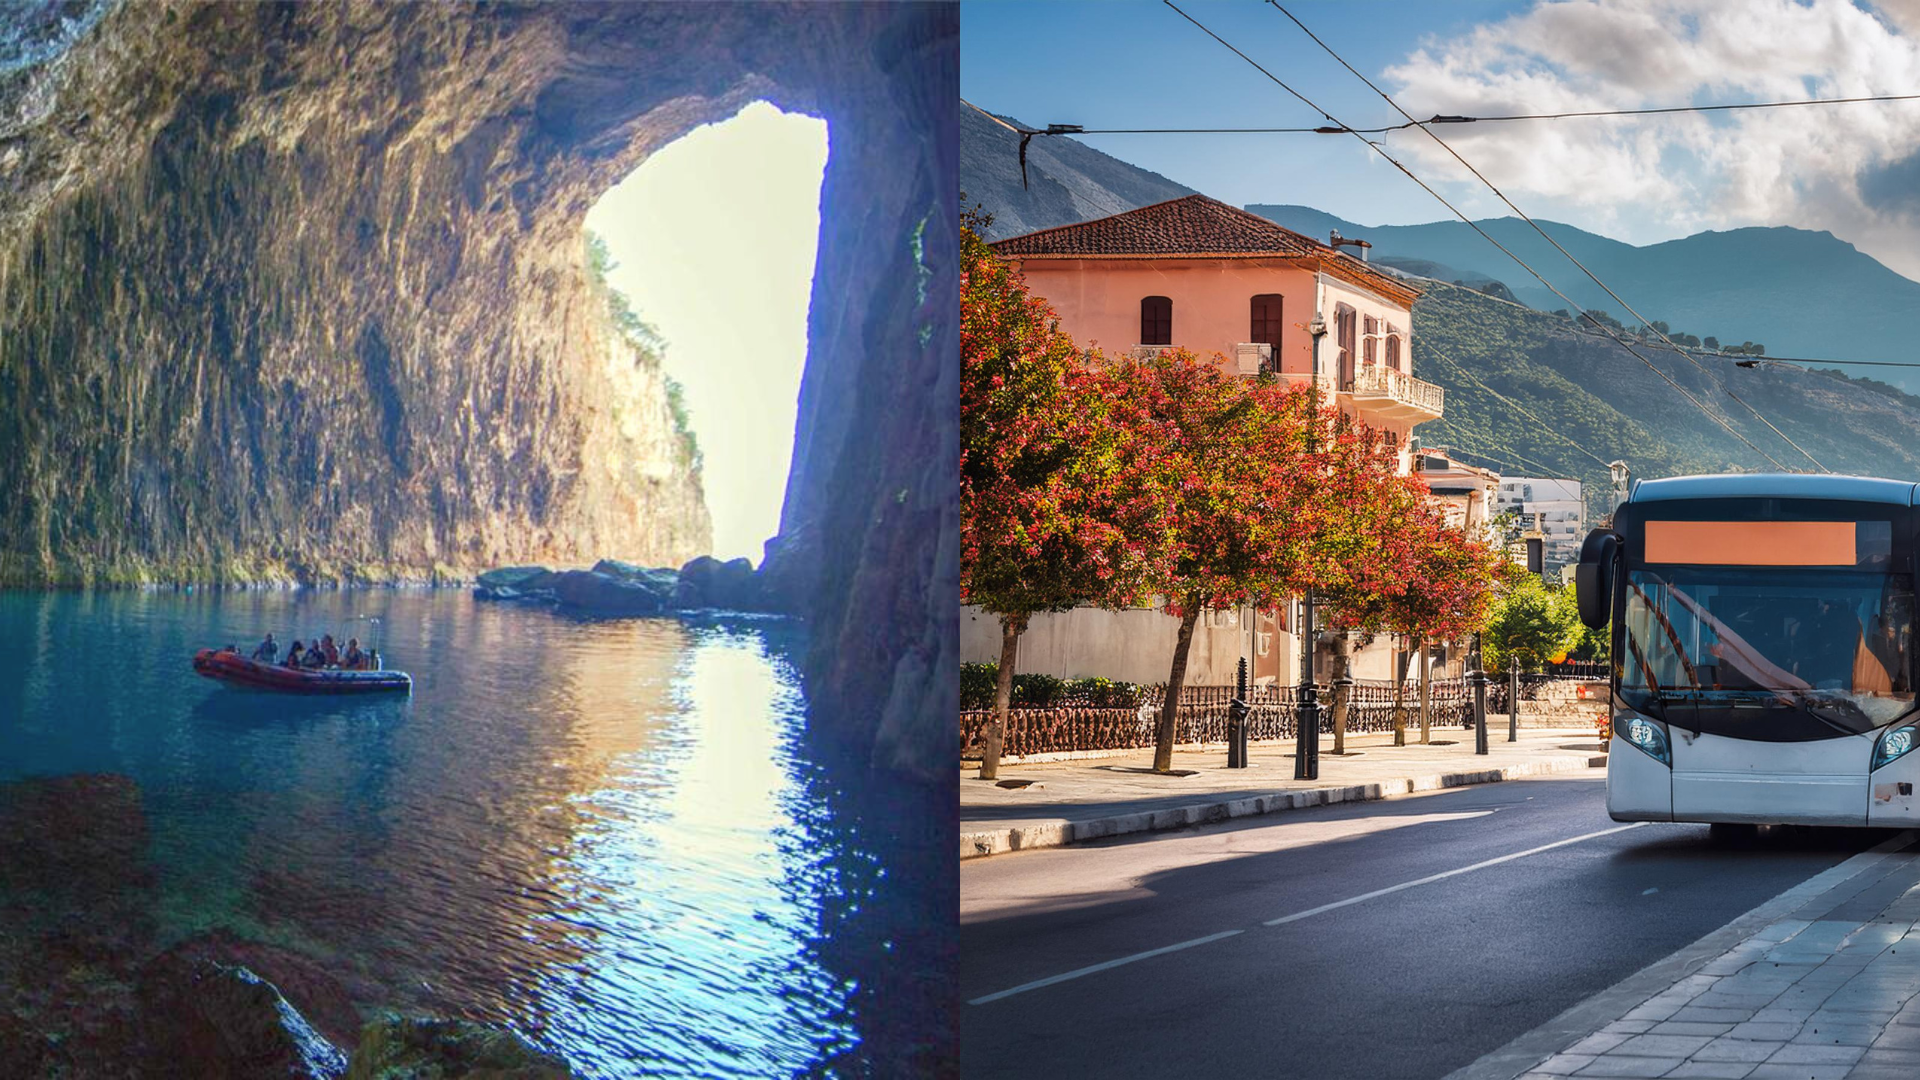
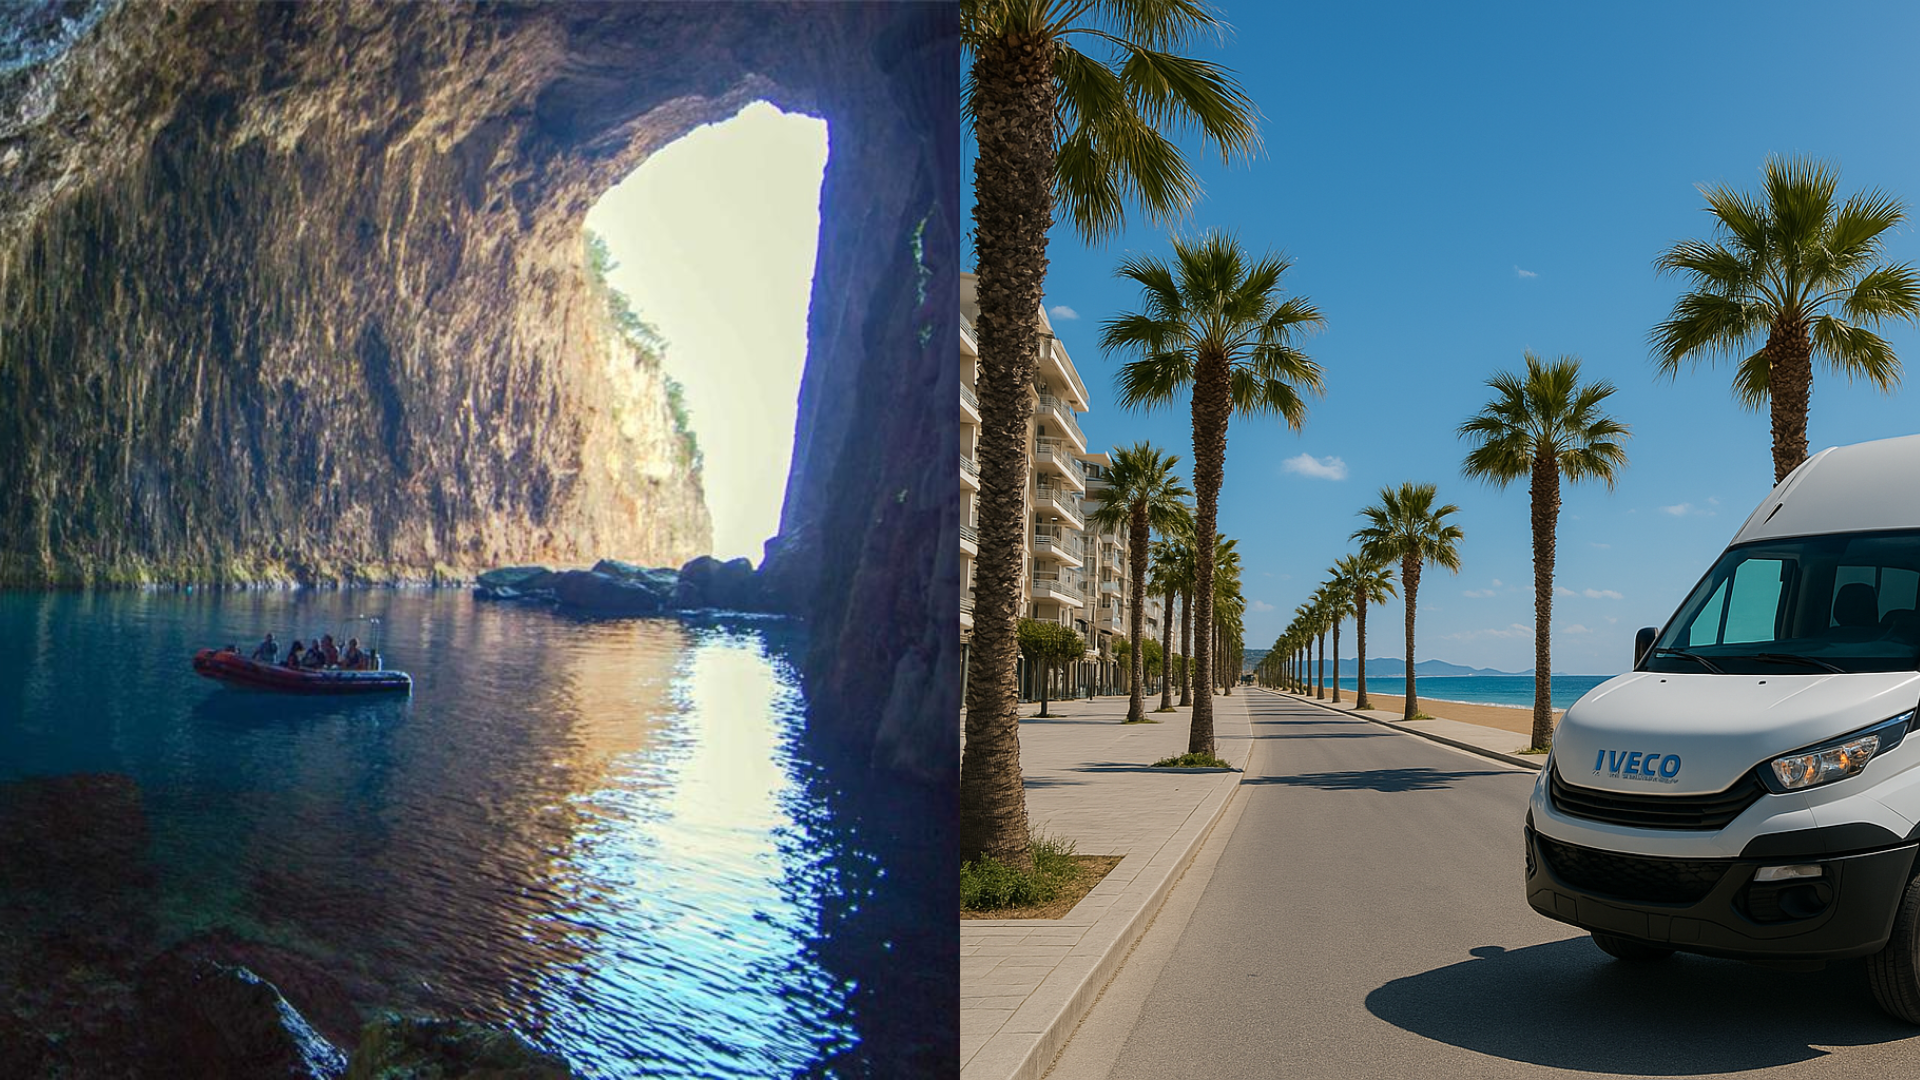
integrate add to cart alert message and sound

diff --git a/index.html b/index.html
@@ -28,7 +28,7 @@
       </video>  
       <div class="banner-div">
         <h1 data-i18n="bannerHeading">Explore Vlora</h1>
-        <h4 data-i18n="bannerSub">Boat trips, bus tickets, and travel info—all in one place.</h4>
+        <h4 data-i18n="bannerSub">Boat trips, daily tours, and travel info—all in one place.</h4>
         <button data-i18n="getStarted" type="button" class="btn hidden explore-btn" onclick="window.location.href='./services.html'"> Get Started </button>
       </div>
       <div class="fixed-top-div">
@@ -168,7 +168,7 @@
           </div>
           <img class="grid2-arrow" src="./assets/images/green-curve-shape-easy.svg" alt="" data-dont-replace="">
           <div class="grid2-cta"> 
-            <p class="below-banner-p">A multifunctional tourist info & service point, accessible to all. Book boat trips and bus tickets online, and visit us for travel information, currency exchange, car rentals, and accommodations—ensuring a seamless experience in Vlora.</p>
+            <p class="below-banner-p">A multifunctional tourist info & service point, accessible to all. Book boat trips and daily van tours online, and visit us for travel information, currency exchange, car rentals, and accommodations—ensuring a seamless experience in Vlora.</p>
             <button type="button" class="btn hidden cta-link" onclick="window.location.href='./about.html'"> Learn More <svg xmlns="http://www.w3.org/2000/svg" width="16" height="16" fill="currentColor" class="bi bi-arrow-up-right" viewBox="0 0 16 16">
               <path fill-rule="evenodd" d="M14 2.5a.5.5 0 0 0-.5-.5h-6a.5.5 0 0 0 0 1h4.793L2.146 13.146a.5.5 0 0 0 .708.708L13 3.707V8.5a.5.5 0 0 0 1 0z"/>
             </svg></button>
@@ -266,7 +266,7 @@
                 <span class="enhanced">enhance</span>
                 <span>your adventure</span>
               </h3>
-              <p class="text-muted">Purchase your boat and bus tickets effortlessly through our user-friendly platform, ensuring a hassle-free start to your adventure in Vlora.</p>
+              <p class="text-muted">Purchase your boat and daily tour tickets effortlessly through our user-friendly platform, ensuring a hassle-free start to your adventure in Vlora.</p>
               <img class="" src="./assets/images/swirl.svg" alt="">
             </div>
             <div class="lupa-div">
@@ -333,7 +333,7 @@
           
           <div class="col-md-2">
             <h2><span class="counter" data-target="15000">0</span></h2>
-            <p> Bus Tickets Sold</p>
+            <p> Van Tour Tickets Sold</p>
           </div>
           
           <div class="col-md-2">
@@ -526,7 +526,7 @@
             <img class="" src="./assets/images/double-line.svg" alt="" data-dont-replace="">
           </div>
           <img class="" src="./assets/images/four-angle-star.svg" alt="" >
-          <p class="grid5-intro">Experience Vlora like never before with Tourist Solutions, your dedicated hub for seamless travel planning. Our center caters to all your needs, providing boat and bus tickets, along with essential tourist information in various accessible formats. Learn more about our inclusivity <u><b><a href="./inclusive.html">here</a></b></u> .</p>
+          <p class="grid5-intro">Experience Vlora like never before with Tourist Solutions, your dedicated hub for seamless travel planning. Our center caters to all your needs, providing boat and daily van tour tickets, along with essential tourist information in various accessible formats. Learn more about our inclusivity <u><b><a href="./inclusive.html">here</a></b></u> .</p>
           <img class="arrow" src="./assets/images/green-curve-shape-choose.svg" alt="">
         </div>
         <section class="why-choose-us">
@@ -539,8 +539,8 @@
               </div>
               <div class="feature">
                 <div class="icon"><img src="./assets/images/ticketss.jpeg"></div>
-                <h3>Boat & Bus Booking</h3>
-                <p>Book boat trips and bus tickets online with ease for a seamless journey.</p>
+                <h3>Boat & Daily tour Booking</h3>
+                <p>Book boat trips and van tour tickets online with ease for a seamless journey.</p>
               </div>
               <div class="feature">
                 <div class="icon"><img src="./assets/images/inclusive.jpeg"></div>
@@ -555,7 +555,7 @@
         <div class="container">
           <h2>Ready to Explore Vlora?</h2>
           <p>
-            Plan your journey with us today! Whether you're booking a boat trip, a bus ticket, or have any questions or inquiries, we're here to help.</p>
+            Plan your journey with us today! Whether you're booking a boat trip, a daily van tour ticket, or have any questions or inquiries, we're here to help.</p>
           <a href="contact.html" class="cta-button">Get in Touch</a>
         </div>
       </section>

diff --git a/scripts/booking-page.js b/scripts/booking-page.js
@@ -54,9 +54,37 @@ document.querySelectorAll(".increase, .decrease").forEach(button => {
 
 
 document.addEventListener("DOMContentLoaded", function () {
+
+
+
     // Get the product (boat or bus) name from the URL
     const params = new URLSearchParams(window.location.search);
     const productName = params.get("boat") || params.get("bus"); // Supports both "boat" and "bus"
+      // Restrict date selection
+      const dateInput = document.getElementById("tour-date");
+      if (dateInput) {
+          dateInput.addEventListener("input", function () {
+              const selectedDate = new Date(this.value);
+              const month = selectedDate.getMonth() + 1; // JS months are 0-based
+              const day = selectedDate.getDate();
+              
+              // Check if the month is within June - September
+              if (month < 6 || month > 9) {
+                  alert("Tours are only available from June to September.");
+                  this.value = "";
+                  return;
+              }
+              
+              // Special rules for van tours
+              if (productName === "Vlora-Saranda" && day % 2 === 0) {
+                  alert("This tour is only available on odd dates.");
+                  this.value = "";
+              } else if (productName === "Vlora-Berat" && day % 2 !== 0) {
+                  alert("This tour is only available on even dates.");
+                  this.value = "";
+              }
+          });
+      }
 
     // Define product details (boats + buses)
     const productDetails = {
@@ -229,7 +257,7 @@ document.addEventListener("DOMContentLoaded", function () {
         </div>`;
     
         const isbus = productName.includes("Vlora-");
-        const booknowtitle = isbus ? "Book Your Bus Seat" : "Book Your Tour";
+        const booknowtitle = isbus ? "Book Your Daily Van Tour" : "Book Your Tour";
     
 
     
@@ -292,6 +320,10 @@ document.addEventListener("DOMContentLoaded", function () {
 
 
 document.addEventListener("DOMContentLoaded", function () {
+
+    const  popSound= new Audio("./assets/images/cart-pop.mp3");
+    popSound.preload = 'auto';
+
     let cart = JSON.parse(localStorage.getItem("cart")) || [];
     const cartOffcanvas = document.getElementById("cartOffcanvas");
     const cartItemsContainer = document.getElementById("cart-items");
@@ -359,7 +391,7 @@ document.addEventListener("DOMContentLoaded", function () {
 
         const boatName = document.getElementById("boat-name").textContent;
         const isBus = boatName.includes("Vlora-");
-        const headline = isBus ? "Bus Seat" : "Boat Tour";
+        const headline = isBus ? "Daily Van Tour " : "Boat Tour";
         const date = document.getElementById("tour-date").value;
 
         if (!date) {
@@ -377,6 +409,10 @@ document.addEventListener("DOMContentLoaded", function () {
             alert("Please select at least one adult.");
             return;
         }
+
+        
+
+
 
         const boatDetails = {
             "Aquamarine": {
@@ -408,6 +444,21 @@ document.addEventListener("DOMContentLoaded", function () {
         if (!boat) {
             alert("Invalid selection.");
             return;
+        }else{
+ // Assuming reservation is successful, show the message and play sound
+ const addedToCartMessage = document.getElementById("added-to-cart");
+
+ addedToCartMessage.style.display = "block"; // Show the message
+ popSound.play(); // Play the sound
+
+
+//  setTimeout(function() {
+//     popSound.play();
+// }, 2000);
+ // Hide the message after 2 seconds
+ setTimeout(() => {
+     addedToCartMessage.style.display = "none";
+ }, 2000);
         }
 
         let totalPrice = (adults * boat.price.adult) + (children * boat.price.child);

diff --git a/about.html b/about.html
@@ -160,7 +160,7 @@
      <div class="content ">
         <div class="about-intro container">
             <img src="./assets/images/logo-removebg-preview.png">
-            <p>Located along the stunning coastline of Vlora Beach - Lungomare, InfoPoint Vlora is your go-to center for seamless travel planning. Although we are a recent addition, our impact has been immense, ensuring travelers enjoy a hassle-free experience.<br> As a multifunctional tourist info and service point, we are dedicated to making travel accessible to all. Whether you're looking to book boat trips or bus tickets online, find essential travel information, exchange currency, rent a car, or secure accommodations, we have you covered.<br> Our commitment to inclusivity ensures that every traveler, regardless of their needs, can navigate Vlora with ease. From adventure seekers to casual explorers, we are here to make your journey smooth, enjoyable, and stress-free.</p>
+            <p>Located along the stunning coastline of Vlora Beach - Lungomare, InfoPoint Vlora is your go-to center for seamless travel planning. Although we are a recent addition, our impact has been immense, ensuring travelers enjoy a hassle-free experience.<br> As a multifunctional tourist info and service point, we are dedicated to making travel accessible to all. Whether you're looking to book boat trips or daily van tours online, find essential travel information, exchange currency, rent a car, or secure accommodations, we have you covered.<br> Our commitment to inclusivity ensures that every traveler, regardless of their needs, can navigate Vlora with ease. From adventure seekers to casual explorers, we are here to make your journey smooth, enjoyable, and stress-free.</p>
             <a href="services.html" class="cta">Explore Our Services <svg xmlns="http://www.w3.org/2000/svg" width="16" height="16" fill="currentColor" class="bi bi-arrow-up-right" viewBox="0 0 16 16">
                 <path fill-rule="evenodd" d="M14 2.5a.5.5 0 0 0-.5-.5h-6a.5.5 0 0 0 0 1h4.793L2.146 13.146a.5.5 0 0 0 .708.708L13 3.707V8.5a.5.5 0 0 0 1 0z"/>
               </svg></a>
@@ -201,7 +201,7 @@
                 <div class="col d-flex flex-column gap-2">
                    <span style="font-size: 2rem;" >🚍</span>
                   <h3>200,000+</h3>
-                  <p>Bus Tickets Sold</p>
+                  <p>Van Tour Tickets Sold</p>
                 </div>
       
                 <div class="col d-flex flex-column gap-2">
@@ -229,7 +229,7 @@
             <div class="container">
               <h2>Ready to Explore Vlora?</h2>
               <p>
-                Plan your journey with us today! Whether you're booking a boat trip, a bus ticket, or have any questions or inquiries, we're here to help.</p>
+                Plan your journey with us today! Whether you're booking a boat trip, a daily van tour, or have any questions or inquiries, we're here to help.</p>
               <a href="contact.html" class="cta-button">Get in Touch</a>
             </div>
           </section>

diff --git a/faqs.html b/faqs.html
@@ -173,13 +173,13 @@
                 </div>
             </div>
             <div class="accordion__item">
-                <div class="accordion__header" data-toggle="#faq3">3. Can I book boat and bus tickets online?</div>
+                <div class="accordion__header" data-toggle="#faq3">3. Can I book boat and daily van tour tickets online?</div>
                 <div class="accordion__content" id="faq3">
-                  <p><br>Absolutely! We provide a seamless online booking experience for both boat and bus tickets. Just head over to our booking page for <a href="./bus.html">buses</a> or <a href="./boat.html">boats</a> to get started.   </p>
+                  <p><br>Absolutely! We provide a seamless online booking experience for both boat and van tour tickets. Just head over to our booking page for <a href="./bus.html">daily tours</a> or <a href="./boat.html">boats</a> to get started.   </p>
                 </div>
             </div>
             <div class="accordion__item">
-                <div class="accordion__header" data-toggle="#faq4">4. What happens if I miss my bus or boat departure?</div>
+                <div class="accordion__header" data-toggle="#faq4">4. What happens if I miss my van tour or boat departure?</div>
                 <div class="accordion__content" id="faq4">
                   <p><br>Ticket policies vary by provider. Some allow changes or refunds, while others don’t. Contact us immediately, and we’ll help you find the best solution. </p>
                 </div>
@@ -248,7 +248,7 @@
         </div>
        <div class="still-q shadow">
        <p><b>Still have questions?</b>
-       <br> If you couldn’t find the answer you’re looking for, feel free to reach out! <br><br>Send us an email at <a class="email check-cat" href = "mailto: info@shopathletics.store" target="_blank"  >info@shopathletics.store</a> , and we’ll get back to you as soon as possible. We’re here to help!</p>
+       <br> If you couldn’t find the answer you’re looking for, feel free to reach out! <br><br>Send us an email at <a class="email check-cat" href = "mailto: support@touristsolutions.info" target="_blank"  >support@touristsolutions.info</a> , and we’ll get back to you as soon as possible. We’re here to help!</p>
        </div>
           
        <footer class="">

diff --git a/services.html b/services.html
@@ -174,12 +174,12 @@
           </div>
           <div class="row featurette container">
             <div class="col-md-7 order-md-2">
-              <h2 class="featurette-heading fw-normal lh-1">🚌 Bus Line Bookings</h2>
-              <p class="lead">Travel with ease between <b>Vlora and Saranda & Berat</b> by securing your bus tickets through our platform. Our reliable service ensures a comfortable ride along the scenic coastal route. <b>All reservations and payments are made online </b>for maximum convenience.</p>
-              <a href="bus.html" class="">📅 Book Your Bus Ticket</a>
+              <h2 class="featurette-heading fw-normal lh-1">🚌 Daily Van Tour Bookings</h2>
+              <p class="lead">Explore the beauty of <b>Albania’s southern coast</b> with a visit to the Blue Eye spring, the lively city of Saranda, and the picturesque beaches of Ksamil. Or, immerse yourself in the history of Berat, a UNESCO city renowned for its Ottoman architecture and rich heritage.<b>All reservations and payments are made online </b>for maximum convenience.</p>
+              <a href="bus.html" class="">📅 Book Your Daily Van Tour</a>
             </div>
             <div class="col-md-5 order-md-1">
-                <img src="./assets/images/other pages/service2.webp">
+                <img src="./assets/images/van1.jpeg">
             </div>
           </div>
           <div class="row featurette container">
@@ -204,7 +204,7 @@
               <a href="https://wa.me/yourwhatsappnumber" target="_blank">📲 Book via WhatsApp</a>
             </div>
             <div class="col-md-5 order-md-1">
-                <img src="./assets/images/other pages/service2.webp">
+                <img src="./assets/images/other pages/rentals.png">
             </div>
           </div>
           <div class="row featurette container">
@@ -220,7 +220,7 @@
                <a href="./contact.html#location-section" class="">📍 Visit Us for More Info</a>
             </div>
             <div class="col-md-5">
-                <img src="./assets/images/other pages/service2.webp">
+                <img src="./assets/images/other pages/financial.png">
             </div>
           </div>
         </div>

diff --git a/booking-page.html b/booking-page.html
@@ -263,11 +263,10 @@
               </span>Anything Else?
           </label>
           <textarea rows="5" id="special-requests" placeholder="Additional requests or things that we should know..."></textarea>
-      
 
-      <!-- <div id="added-to-cart">Added to Cart !</div> -->
+      <div id="added-to-cart">Added to Cart !</div>
           <div class="book-btn">
-              <button type="submit" id="bookNow" class="book-now-btn">Book Now</button>
+              <button type="submit" id="bookNow" class="book-now-btn">Add to Cart</button>
           </div>
       </div>
       

diff --git a/styles.css b/styles.css
@@ -1208,4 +1208,20 @@ width:70%
     }
 }
 
+#added-to-cart {
+    display: none;
+    background: rgba(0, 128, 0, 0.8); /* Green with transparency */
+    color: white;
+    padding: 10px;
+    text-align: center;
+    font-weight: bold;
+    border-radius: 5px;
+    position: fixed;
+    top:50%;
+    left: 50%;
+    transform: translateX(-50%);
+    z-index: 9000;
+}
+
+
 

diff --git a/bus.html b/bus.html
@@ -24,7 +24,7 @@
 <body>
   <div class="body-container">
      <div class="grid1">
-      <img class="banner" src="./assets/images//other pages/bus.jpeg"> 
+      <img class="banner" src="./assets/images/vanpic.png"> 
       <div class="banner-div">
         <h1>Daily Van Tours</h1>
         <!-- <h4>Boat trips, bus tickets, and travel info—all in one place.</h4> -->
